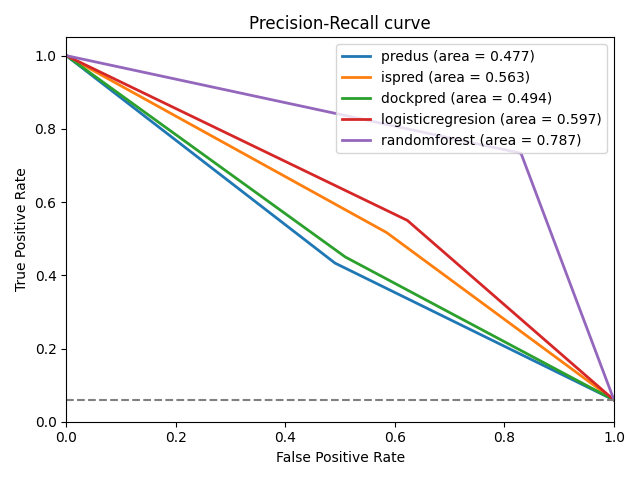
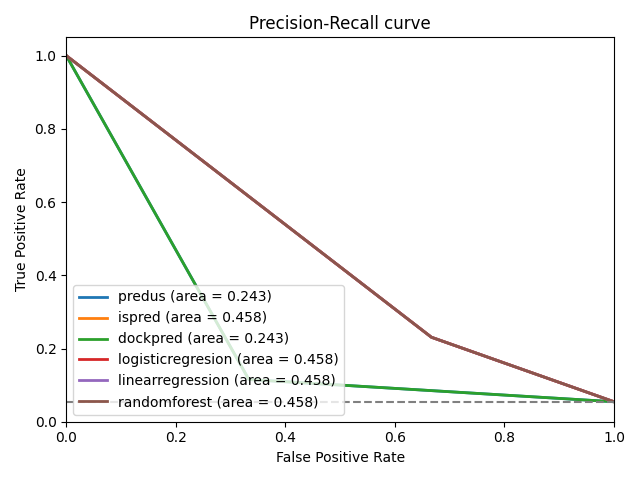
add linear regresion

diff --git a/metadpi/scripts/graphing.py b/metadpi/scripts/graphing.py
@@ -1,17 +1,22 @@
-import pandas as pd 
 import  matplotlib.pyplot as plt 
 from dtreeviz.trees import *
+import pandas as pd 
 
 
-    
+
 def roc_viz(roc_curve_data, output_path_dir, model_name):
+    roc_frame = pd.DataFrame()
+
     plt.figure()
     lw = 2
     for data in roc_curve_data:
         pred,fpr,tpr,roc_auc,thresholds = data
+        roc_frame[f"{pred}_fpr"] = fpr 
+        roc_frame[f"{pred}_tpr"] = tpr 
         plt.plot(fpr,tpr,lw=lw, label=f"{pred} (area = {roc_auc})")
 
 
+    roc_frame.to_csv(f"{output_path_dir}/roc_{model_name}.csv")
     plt.plot([0, 1], [0, 1], color="gray", lw=lw, linestyle="--", alpha = 0.5)
     plt.xlim([0.0, 1.0])
     plt.ylim([0.0, 1.05])
@@ -25,15 +30,17 @@ def roc_viz(roc_curve_data, output_path_dir, model_name):
     return
     
 def pr_viz(pr_curve_data, output_path_dir, model_name, df, annotated_col):
+    pr_frame = pd.DataFrame()
     plt.figure()
     lw = 2
     for data in pr_curve_data:
         pred,recall,precision,pr_auc,thresholds = data
+        pr_frame[f"{pred}_fpr"] = recall 
+        pr_frame[f"{pred}_tpr"] = precision 
         plt.plot(recall,precision,lw=lw, label=f"{pred} (area = {pr_auc})")
-
+    pr_frame.to_csv(f"{output_path_dir}/roc_{model_name}.csv")
     no_skill = len(df[df[annotated_col]==1]) / len(df)
     plt.plot([0, 1], [no_skill, no_skill], linestyle='--', color='gray')
-    # plt.plot([0, 1], [0, 1], color="gray", lw=lw, linestyle="--", alpha = 0.5)
     plt.xlim([0.0, 1.0])
     plt.ylim([0.0, 1.05])
     plt.xlabel("False Positive Rate")
@@ -60,3 +67,25 @@ def treeviz(treeparams,result_path,code,cols):
     
     path = f"{result_path}/META_DPI_RESULTS{code}/Trees/Rftree_{depth}.svg" 
     viz.save(path)
+    return
+
+def roc_to_csv(roc_curve_data, output_path_dir, model_name):
+    roc_frame = pd.DataFrame()
+    for data in roc_curve_data:
+        pred,fpr,tpr,roc_auc,thresholds = data
+        roc_frame[f"{pred}_fpr"] = fpr 
+        roc_frame[f"{pred}_tpr"] = tpr 
+   
+    roc_frame.to_csv(f"{output_path_dir}/roc_{model_name}.csv")
+    return
+
+def pr_to_csv(pr_curve_data, output_path_dir, model_name):
+    pr_frame = pd.DataFrame()
+    for data in pr_curve_data:
+        pred,recall,precision,pr_auc,thresholds = data
+        pr_frame[f"{pred}_fpr"] = recall 
+        pr_frame[f"{pred}_tpr"] = precision 
+    pr_frame.to_csv(f"{output_path_dir}/roc_{model_name}.csv")
+    return
+
+

diff --git a/metadpi/app.py b/metadpi/app.py
@@ -6,7 +6,7 @@ from .scripts.postprocess import postprocess
 from .scripts.logisticregrsion import logistic_regresion_test_train, logreg_predict_from_trained_model, logreg_generate_model
 from .scripts.randomforest import randomforest_test_train, randomforest_predict_from_trained_model,randomforest_generate_model
 from .scripts.graphing import roc_viz, pr_viz
-from .scripts.linearregersion import linear_regresion_test_train, linreg_predict_from_trained_model,linreg_generate_model
+from .scripts.linearregression import linear_regresion_test_train, linreg_predict_from_trained_model,linreg_generate_model
 
 
 """
@@ -21,7 +21,8 @@ def run() -> None:
     args_container = interface()
     df = pd.read_csv(args_container.input_frames_file)
     df, feature_cols, annotated_col, proteins  = data_preprocesss(df) 
-        
+    
+
     #mode selection 
     if args_container.mode == 'predict':
         df = linreg_predict_from_trained_model(df, feature_cols, args_container.input_folder_path, args_container.model_name)
@@ -42,6 +43,7 @@ def run() -> None:
         df, test_frame = linear_regresion_test_train(test_frame,train_frame,df,feature_cols,annotated_col, args_container.output_path_dir, args_container.model_name)
         df, test_frame = logistic_regresion_test_train(test_frame,train_frame,df,feature_cols,annotated_col, args_container.output_path_dir, args_container.model_name)
         df, test_frame = randomforest_test_train(test_frame,train_frame,df,feature_cols,annotated_col, args_container.rf_params,args_container.output_path_dir,args_container.model_name)
+
         results_df, roc_curve_data,pr_curve_data = postprocess(test_frame,feature_cols,args_container,annotated_col,args_container.autocutoff)
         roc_viz(roc_curve_data,args_container.output_path_dir, args_container.model_name)
         pr_viz(pr_curve_data,args_container.output_path_dir,args_container.model_name, test_frame, annotated_col)        
@@ -90,3 +92,4 @@ def input_parser(file, df):
     lines = [i if i[-2] == '.' else f"{i[:-1]}.{i[-1:]}"  if i[-2].isdigit() or i[-2].isalpha() else  i.replace(i[-2],'.')  for i in lines]
     frame : pd.DataFrame = df[df['protein'].isin(lines)]
     return frame
+

diff --git a/metadpi/scripts/postprocess.py b/metadpi/scripts/postprocess.py
@@ -6,7 +6,7 @@ import  matplotlib.pyplot as plt
 
 
 def postprocess(test_frame,feature_cols,args_container,annotated_col,autocutoff) -> Tuple[pd.DataFrame, list, list]:   
-    predicted_col = feature_cols + ['logisticregresion', "linearregrsion",'randomforest']
+    predicted_col = feature_cols + ['logisticregresion', "linearregression",'randomforest']
     results = []
     roc_curve_data :list = []
     pr_curve_data:list = []
@@ -24,7 +24,7 @@ def postprocess(test_frame,feature_cols,args_container,annotated_col,autocutoff)
     return  result_df, roc_curve_data, pr_curve_data
 
 def cutoff_file_parser(cutoff_frame) -> dict:
-    cutoff_frame_df = pd.read_csv(cutoff_frame)
+    cutoff_frame_df : pd.DataFrame= pd.read_csv(cutoff_frame)  # type: ignore
     cutoff_frame_df.columns= cutoff_frame_df.columns.str.lower()
     cutoff_dict =  dict(zip(cutoff_frame_df['protein'], cutoff_frame_df['cutoff res']))
     return cutoff_dict

diff --git a/metadpi/scripts/interface.py b/metadpi/scripts/interface.py
@@ -17,7 +17,10 @@ def interface() -> FilePaths :
     parser.add_argument('-protein_visualization', default=False, help='')
     parser.add_argument('-cutoffs', default='cutoffs.csv', help='')
     parser.add_argument('-autocutoff', default='15', help='')
-    parser.add_argument('-model_name', default='model', help='')
+    parser.add_argument('-model_name', default='model', help='') 
+    #TODO add this later 
+    parser.add_argument('-plot','--plotselection' ,choices=['plot', 'csv', 'both'] , default='both',help= "output pr and roc curve as csv, png or both")
+
     args = parser.parse_args()
     args_container:FilePaths = parse(args)
     return args_container

diff --git a/metadpi/scripts/containers/filepaths.py b/metadpi/scripts/containers/filepaths.py
@@ -10,6 +10,7 @@ class FilePaths:
         self.folder_path  = folder_path
         self.model_name = args.model_name
         self.autocutoff = args.autocutoff
+        self.plotmode = args.plotselection
         self.use_test_train_files = True
         self.use_cutoff_from_file = True
         self.output_path_dir= os.path.join(folder_path, 'output')

diff --git a/metadpi/scripts/logisticregrsion.py b/metadpi/scripts/logisticregrsion.py
@@ -39,7 +39,6 @@ def logreg_predict_from_trained_model(df,feature_cols,annotated_col,input_folder
     exponent = np.exp(val)
     pval = (1/(1+exponent)) #type: ignore
     df['logisticregresion'] = list(pval)
-    df['logisticregresion'] = pval
     return df
 
 def logreg_generate_model(df,feature_cols,annotated_col,output_path_dir,model_name):

diff --git a/metadpi/scripts/randomforest.py b/metadpi/scripts/randomforest.py
@@ -23,7 +23,6 @@ def randomforest_predict_from_trained_model(df: pd.DataFrame,feature_cols,annota
     y_prob = loaded_rf.predict_proba(X_test)
     y_prob_interface = [p[1] for p in y_prob]
     df['randomforest'] = y_prob_interface
-    df['randomforest'] = df['randomforest']
     return df 
 
 
